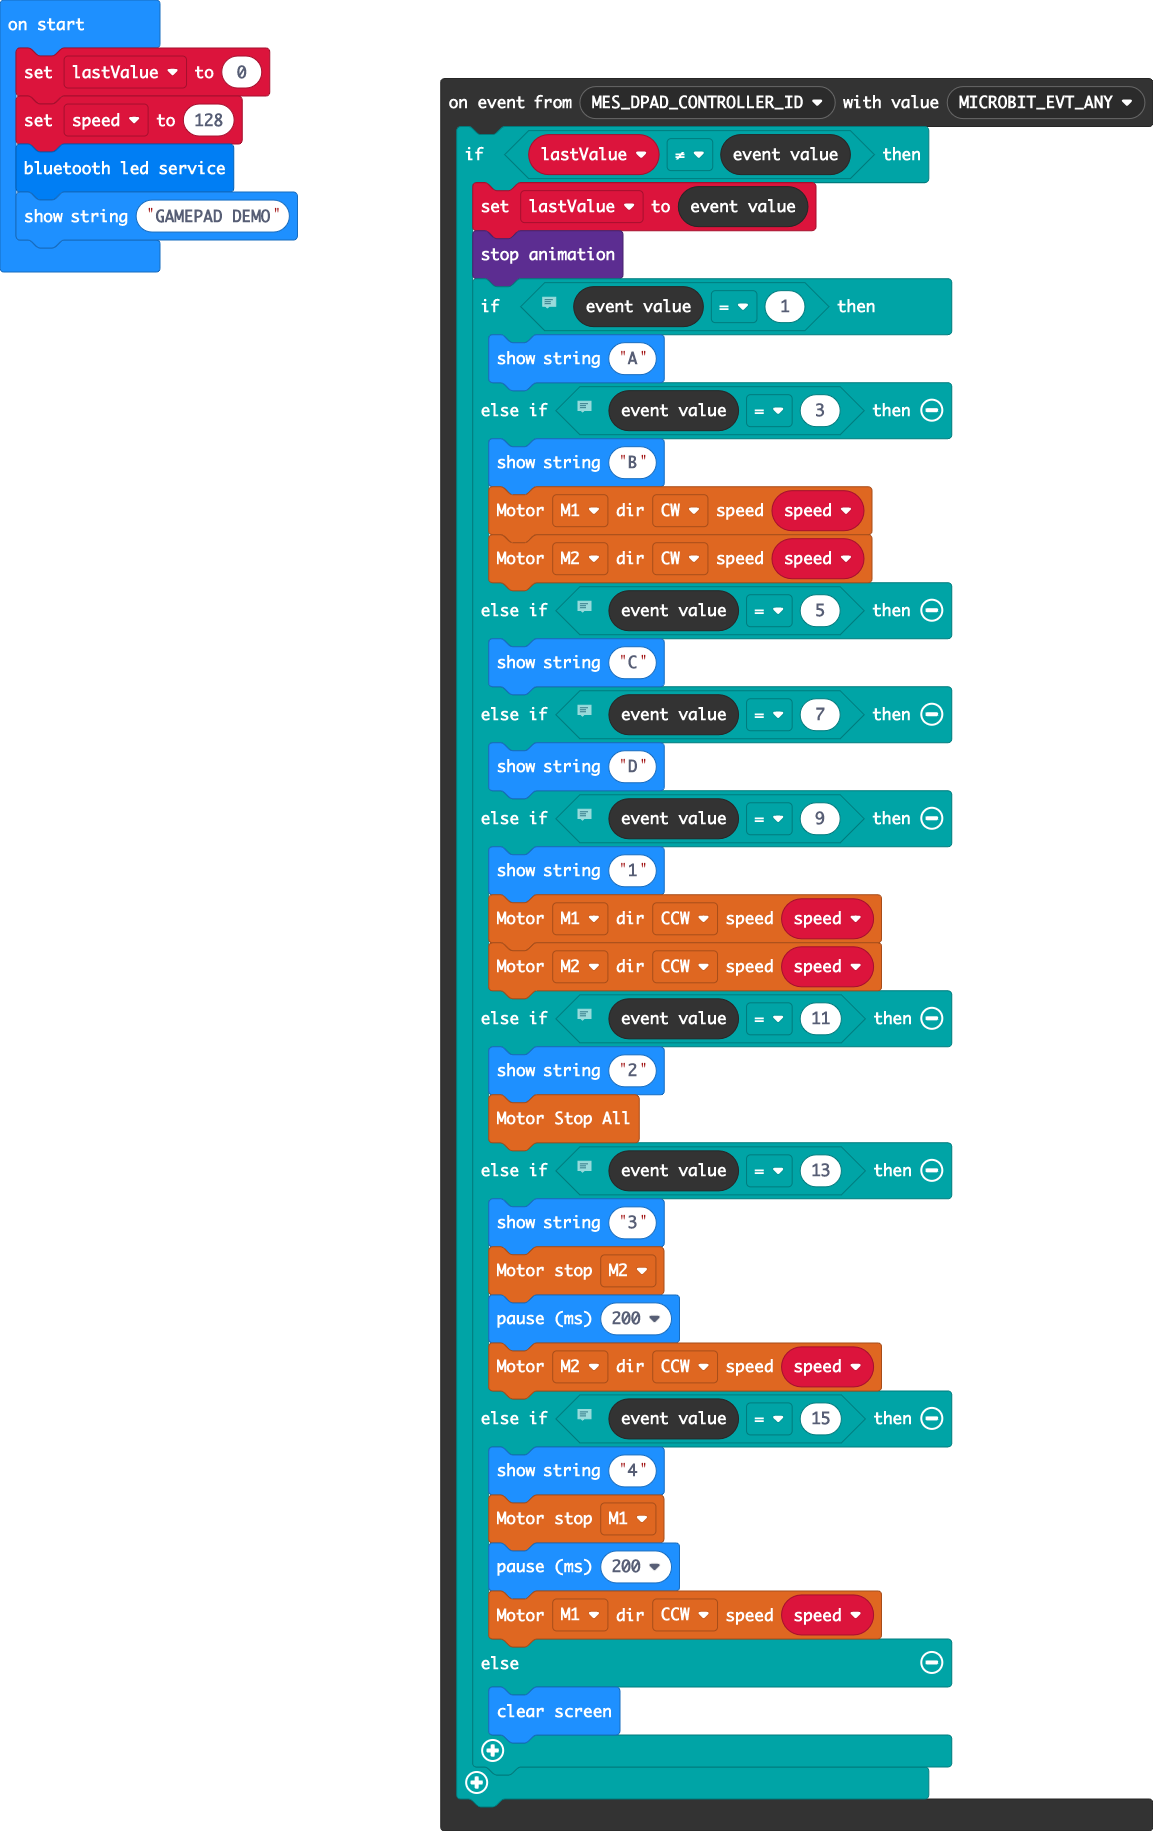
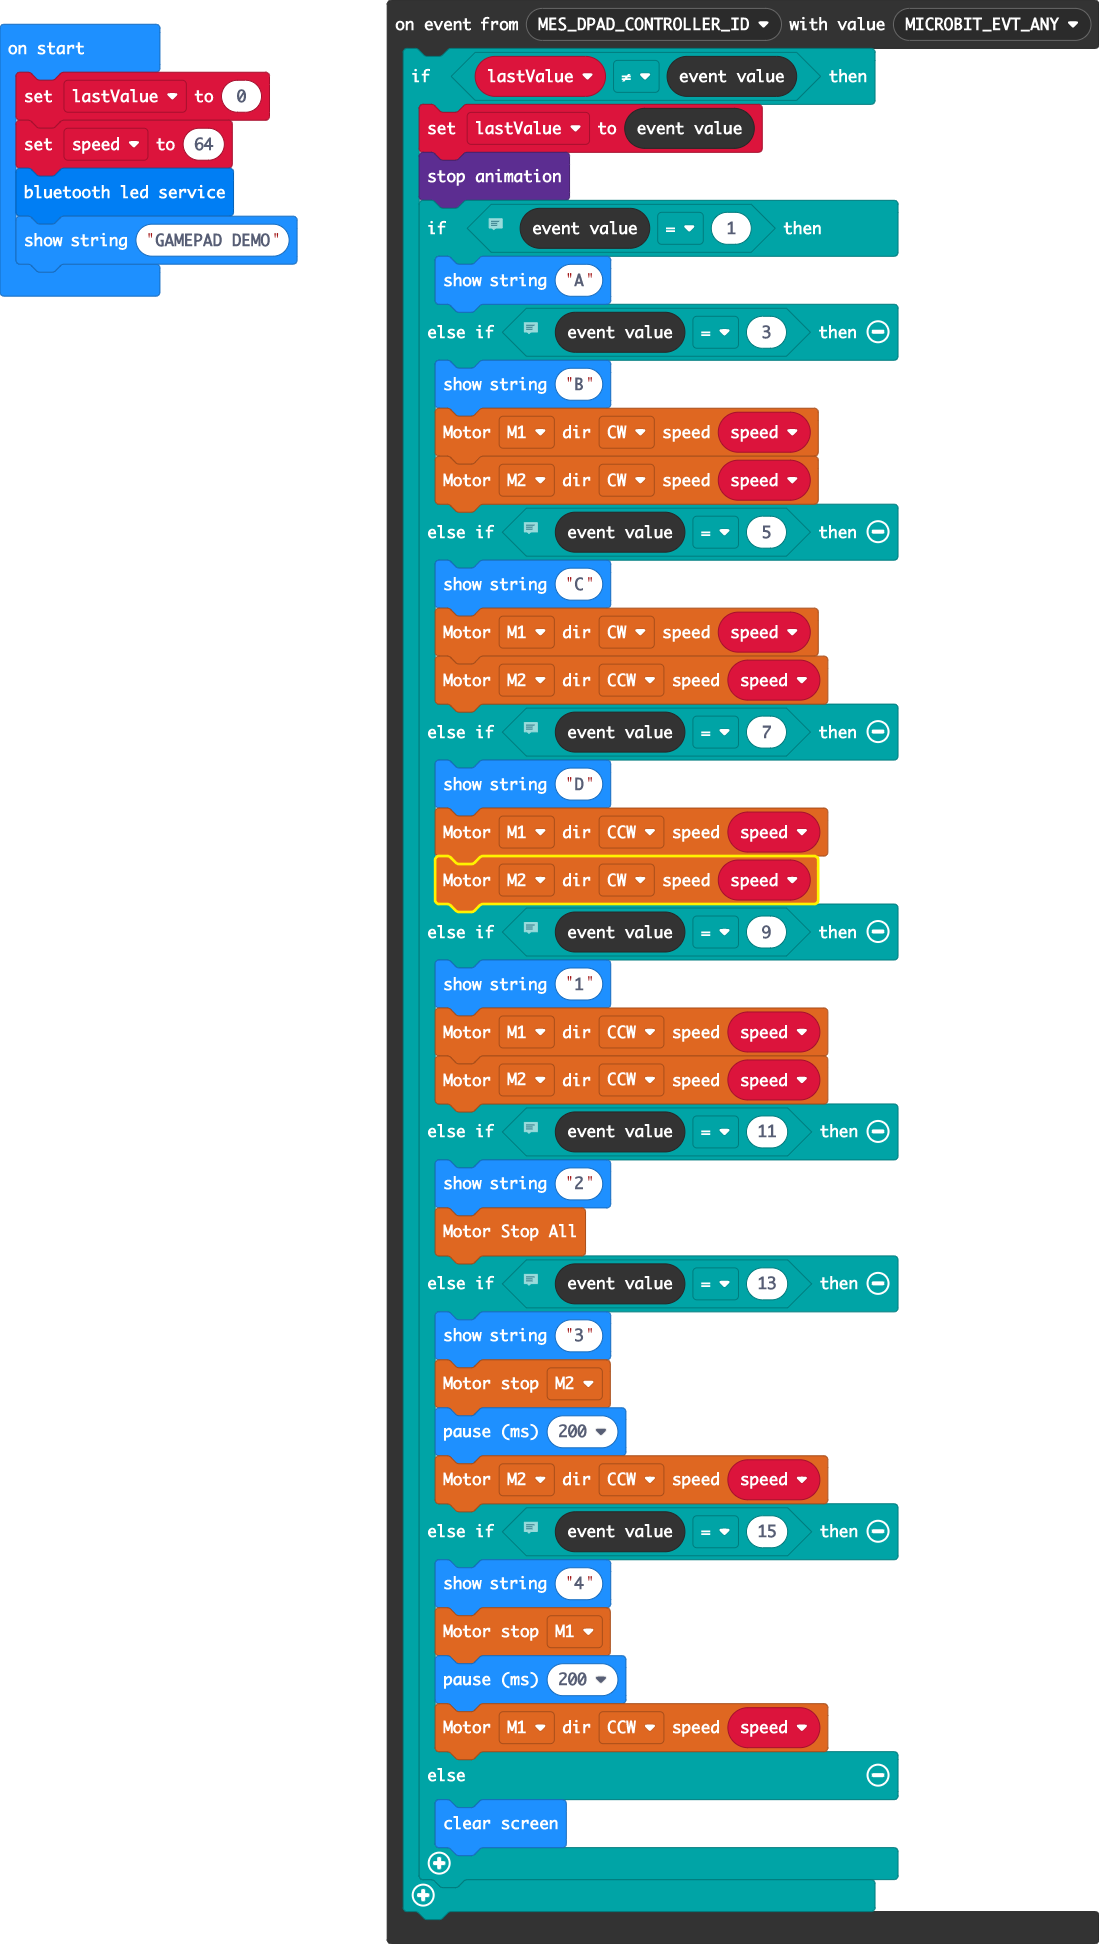
Update main.blocks, main.ts

diff --git a/main.ts b/main.ts
@@ -18,8 +18,12 @@ control.onEvent(EventBusSource.MES_DPAD_CONTROLLER_ID, EventBusValue.MICROBIT_EV
             motor.MotorRun(motor.Motors.M2, motor.Dir.CW, speed)
         } else if (control.eventValue() == 5) {
             basic.showString("C")
+            motor.MotorRun(motor.Motors.M1, motor.Dir.CW, speed)
+            motor.MotorRun(motor.Motors.M2, motor.Dir.CCW, speed)
         } else if (control.eventValue() == 7) {
             basic.showString("D")
+            motor.MotorRun(motor.Motors.M1, motor.Dir.CCW, speed)
+            motor.MotorRun(motor.Motors.M2, motor.Dir.CW, speed)
         } else if (control.eventValue() == 9) {
             basic.showString("1")
             motor.MotorRun(motor.Motors.M1, motor.Dir.CCW, speed)
@@ -45,6 +49,6 @@ control.onEvent(EventBusSource.MES_DPAD_CONTROLLER_ID, EventBusValue.MICROBIT_EV
 let speed = 0
 let lastValue = 0
 lastValue = 0
-speed = 128
+speed = 64
 bluetooth.startLEDService()
 basic.showString("GAMEPAD DEMO")
